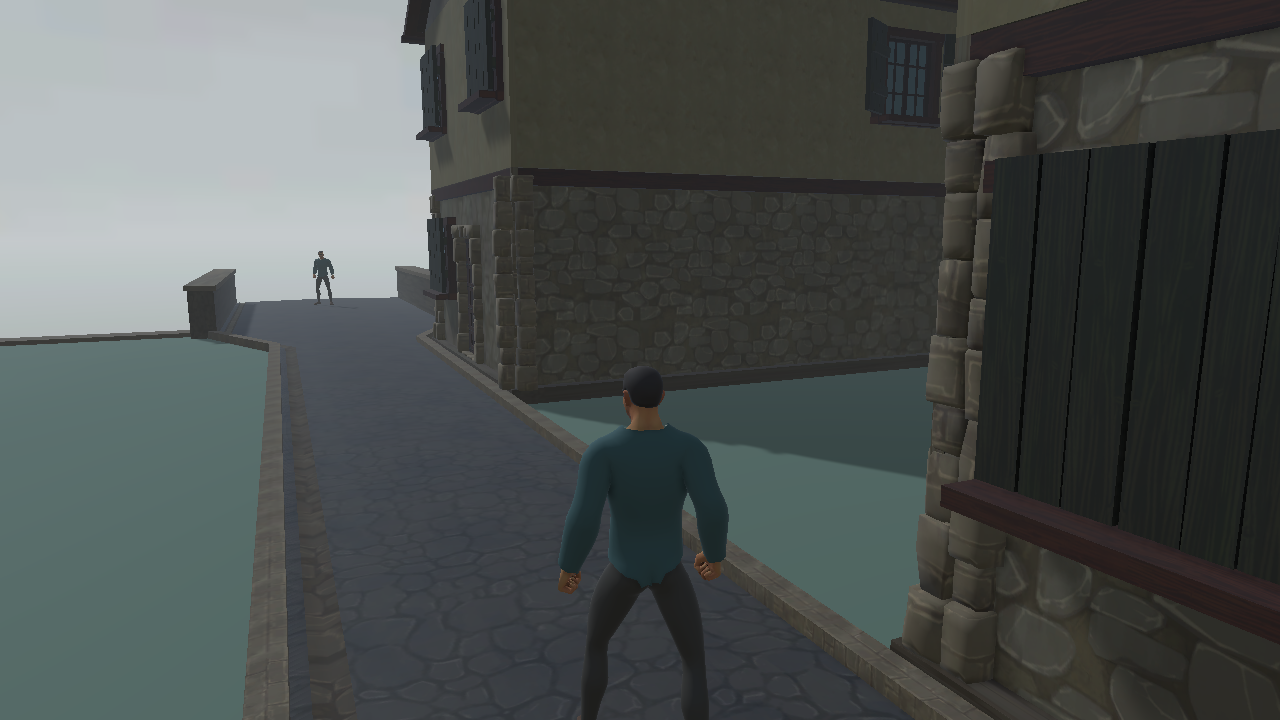
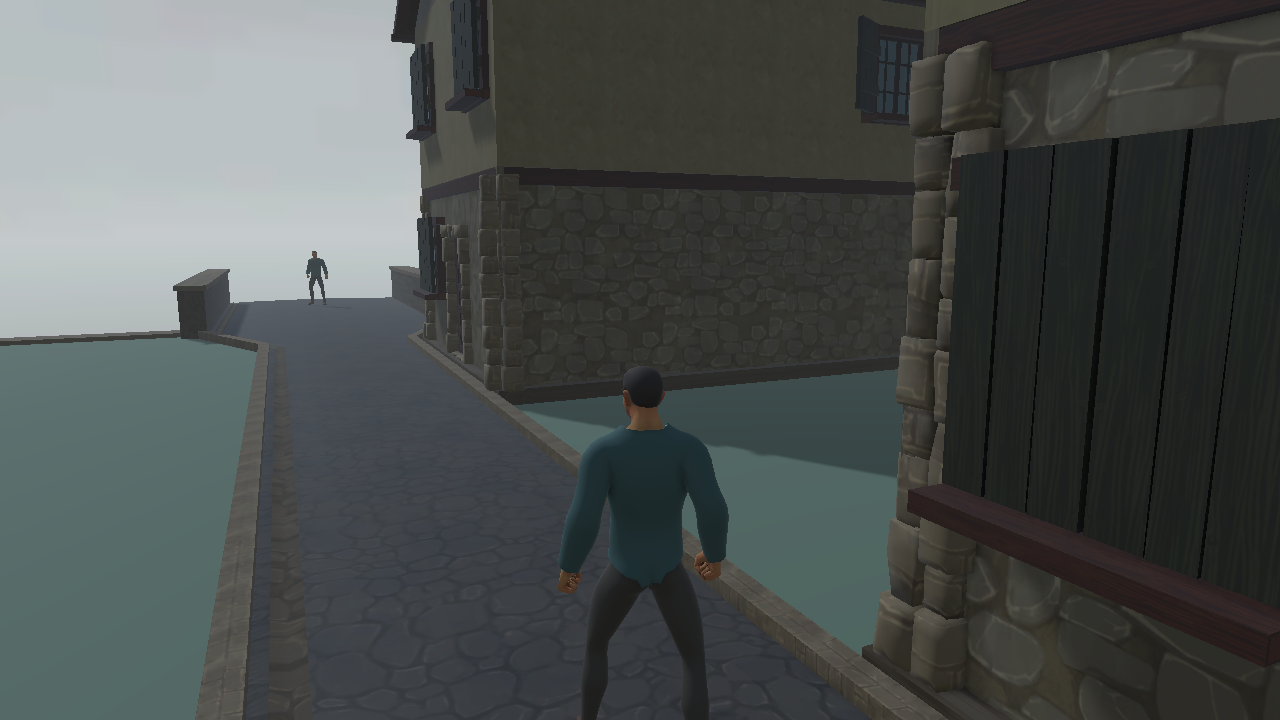
WP-H2F-02: final evidence, owner inspection, residuals

diff --git a/Docs/evidence/WP-H2F-02/OWNER_JUDGEMENT.md b/Docs/evidence/WP-H2F-02/OWNER_JUDGEMENT.md
@@ -1,0 +1,31 @@
+# Owner visual inspection (WP evaluation method: targeted human visual inspection of migrated real content)
+
+Date: 2026-09-28. Inspector: the project owner, in this Worker session, looking at `captures/owner/*.png` from the evidence workspace (ART-01 `PREFOUNDATION_INPUT` `174d05d2` route + owner-vault content on the adopted URP baseline, GC2 Core provisioned). The H2F-01 built-in reference was `Docs/evidence/WP-H2F-01/captures/owner/S01_render.png`.
+
+OWNER_VISUAL_INSPECTION: ACCEPTED_WITH_NOTES
+
+## Round 1 (first capture set), verbatim
+
+> "por partes, lo casa todavía parecen assets pegados, las esquinas estan mal y las ventanas se montan encima, los marcos de las puertas no son rectos, el cartel queda muy mal sobretodo la tipografía, los modelos de los personajes hacen clipping con los objetos, los arboles directamente no se ven. Por el resto bien pero sobretodo la casa está mal, el clipping y los arb oles. Carteles iran en otro wp"
+
+| Observation | Classification | Action |
+|---|---|---|
+| Character models clip with objects | **evidence defect** (edit-time bodies placed at fixed points; one NPC stood on the river kerb) | fixed: bodies placed through a capsule check; `characterOverlaps` recorded and required empty |
+| Trees not visible | **evidence defect** (the worldbuilding sample scattered no trees) | fixed: ART trees with palette materials added |
+| (found while fixing) black shading at the junction mouth | **product defect**: double-sided kerb fillets gave degenerate normals | fixed in `J2JunctionRealizer`; regression test on fillet normals |
+| Signs / typography | out of scope | owner: *"Carteles iran en otro wp"* |
+| House: modules look glued, bad corners, windows mounted on top, door frames not straight | ART-01 structural assembly. The H2F-01 **built-in** reference shows the same assembly, so it is not produced by the URP migration or the foundation. | routed to ART-01 (below) |
+
+## Round 2 (corrected captures), verbatim
+
+> "todo arreglado menos las casas que siguen siendo muy irregulares"
+
+## Decision, verbatim (asked whether to freeze H2F-02 and route the houses to ART-01)
+
+> "Congelar y derivar a ART-01"
+
+## Routed obligations
+
+- **ART-01:** the house assembly irregularities (glued-looking modules, corners, windows overlapping walls, door frames not straight) are an owner-observed defect of its structural benchmark. ART-01's effective candidate on this baseline must resolve them before `KEEPER_READY`.
+- **Separate WP (owner):** signage and typography.
+- **ART palette tuning:** fern/leaf cards with the tree-leaf texture read as floating paper, so the sample dropped the fern. The Source→palette mapping for ferns belongs to ART.

diff --git a/Docs/evidence/WP-H2F-02/H1_COMPATIBILITY.md b/Docs/evidence/WP-H2F-02/H1_COMPATIBILITY.md
@@ -36,7 +36,7 @@ Nothing else under `Assets/Arkus/H1`, `tools/`, `src/`, `tests/` or H1 evidence 
 | `d770bf20` (URP adopted, snapshot not yet re-baselined) | failure 36372671029 | failure 36372671015 | failure 36372670925 | failure 36372670963 | failure 36372670931 | H1 fails closed: `projection.catalogue-snapshot-stale`, one differing row |
 | `1b91d43d` (snapshot re-baselined) | success 36373728445 | success 36373728505 | success 36373728511 | success 36373728441 | cancelled | re-baseline restores H1 |
 | `2a2a9112` (URP first-use state committed) | success 36389412638 | success 36389412577 | success 36389412719 | cancelled | **success 36389412778** (cleanup clean-tree check passes) | URP init no longer dirties the tree |
-| `0e4a44ac` (tree `c9813874`, identical to the final evidence) | success 36390296667 | success 36390296763 | success 36390296765 | success 36390296837 | recorded on the PR | final Unity bytes |
+| `0e4a44ac` (tree `c9813874`) | success 36390296667 | success 36390296763 | success 36390296765 | success 36390296837 | see PR | UAL root-motion rules |
 
-Later docs-only commits keep the Unity tree `c9813874`; their hosted runs are listed on the PR.
+The final Unity tree (`ed331750`, from `5623fa9f`: single-sided junction kerb fillets) changes only Juego2 foundation code and tests. Its hosted runs and those of the frozen candidate are listed on the PR.
 

diff --git a/Docs/evidence/WP-H2F-02/RESIDUALS.md b/Docs/evidence/WP-H2F-02/RESIDUALS.md
@@ -19,3 +19,6 @@ Allowed residuals under the WP: final artistic tuning (ART-01/CITY-07/ART-02), l
 | R13 | Separately licensed GC2 modules (Dialogue, Inventory, Behavior, Perception, Melee, Quests, …) are not installed; each needs its own adoption WP. GC2 save host is H6. | deferred | GC2-03+ / H6 |
 | R14 | `J2ShaderAudit` classification is structural (subshader `RenderPipeline` tag, URP LightModes, untagged passes = `SRPDefaultUnlit`, pipeline-agnostic builtins). Rendered captures are the human cross-check. | method limit | — |
 | R15 | Scatter exclusion margin is measured from no-go colliders. Kerbs carry no collider by design (NavMesh), so the margin must exceed kerb width; the default 0.6 m ≥ 0.2 m kerb. | documented rule | owners of scatter profiles |
+| R16 | Owner inspection: the ART-01 benchmark houses still look like glued modules (corners, windows mounted on walls, door frames not straight). This is identical under built-in, so it is ART-01's structural assembly, not the migration. Owner decision: "Congelar y derivar a ART-01". | owner-routed | ART-01 (before `KEEPER_READY`) |
+| R17 | Signage and typography (TextMesh sign on the benchmark). Owner: "Carteles iran en otro wp". | owner-routed | separate WP (owner) |
+| R18 | Source→ART-palette mapping for ferns: the tree-leaf texture on fern cards reads as floating paper. | art tuning | ART |
